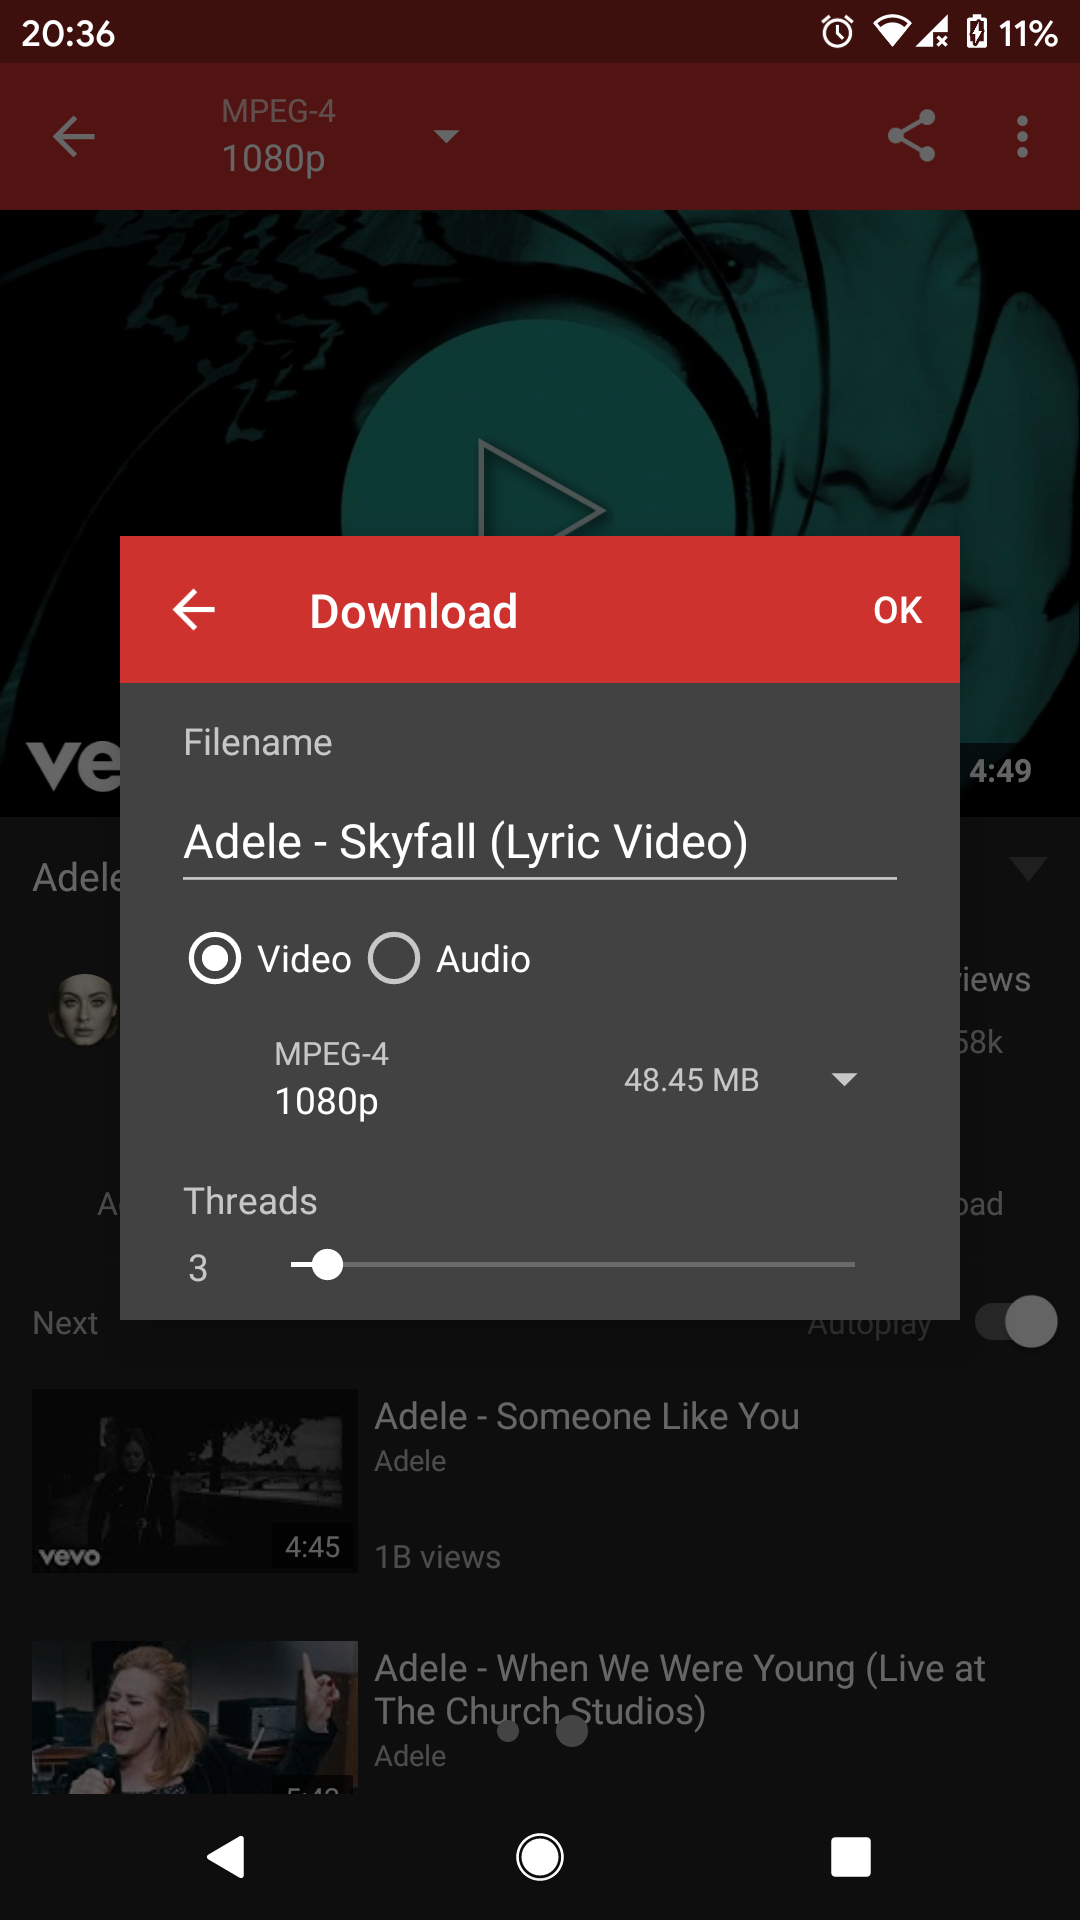
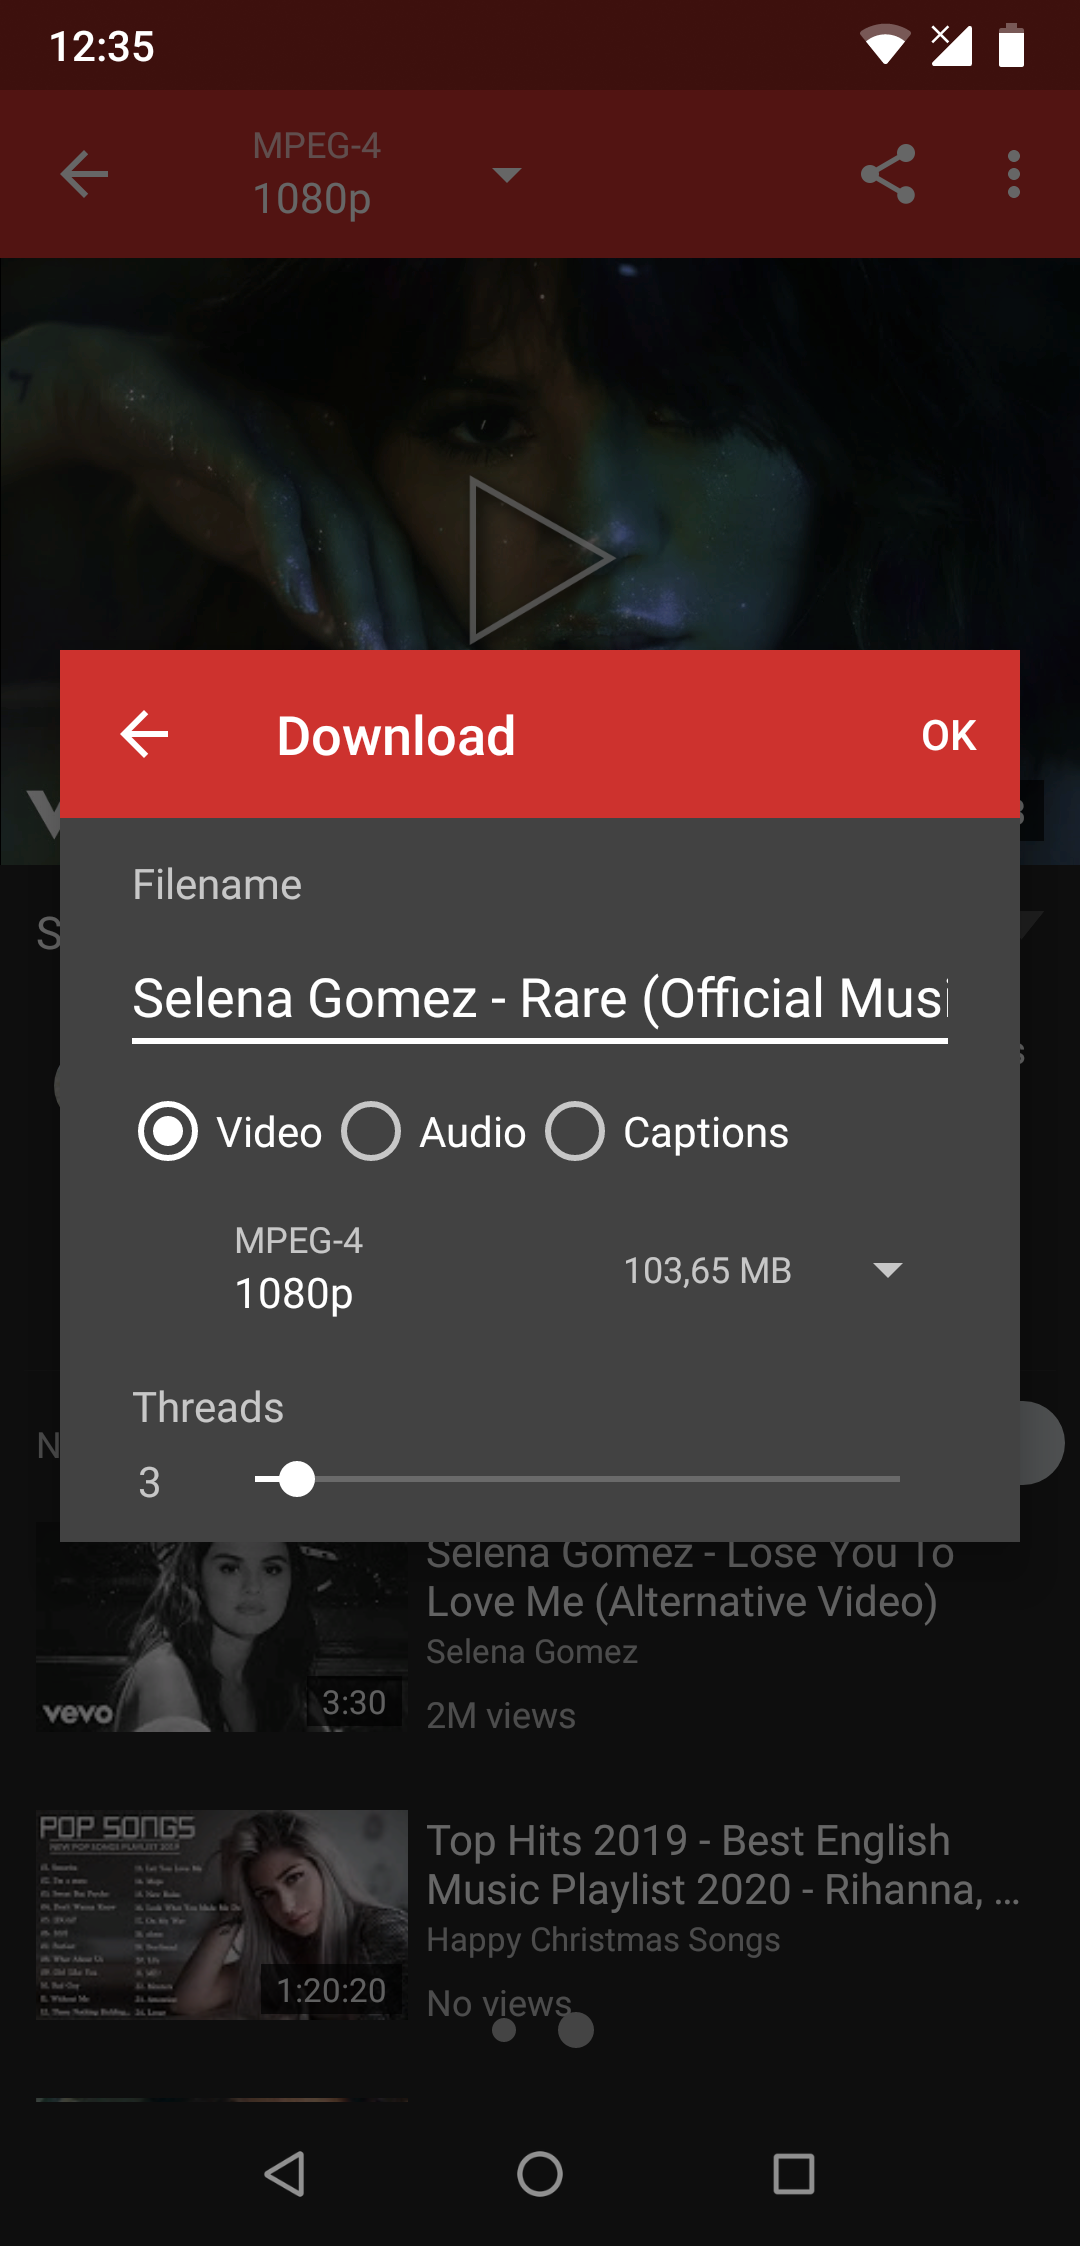
Update screenshot + ticks

diff --git a/index.html b/index.html
@@ -196,8 +196,7 @@
                         <p><strong>Customize your download:</strong></p>
                         <ul>
                             <li>Set title</li>
-                            <li>Choose between video or audio download</li>
-                            <li>Download subtitles</li>
+                            <li>Choose between video, audio or captions download</li>
                             <li>Select the most suitable file format</li>
                             <li>Download the resolution you need</li>
                         </ul>
